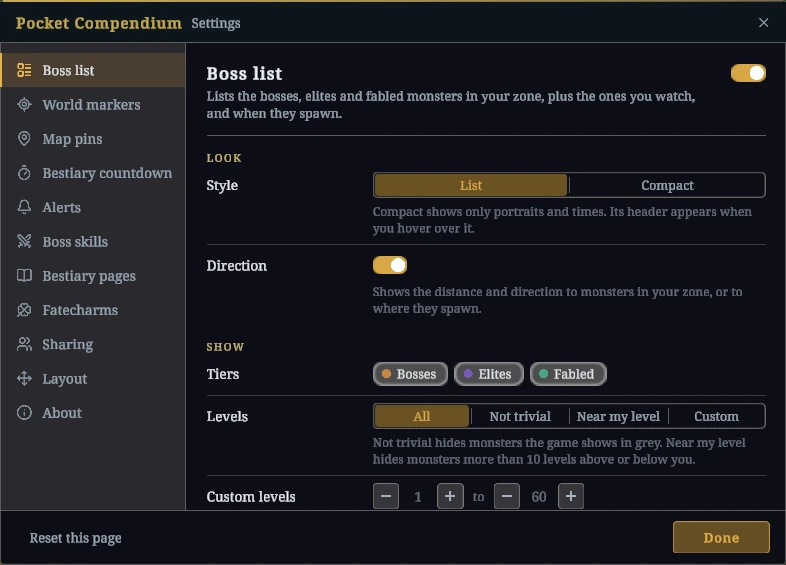
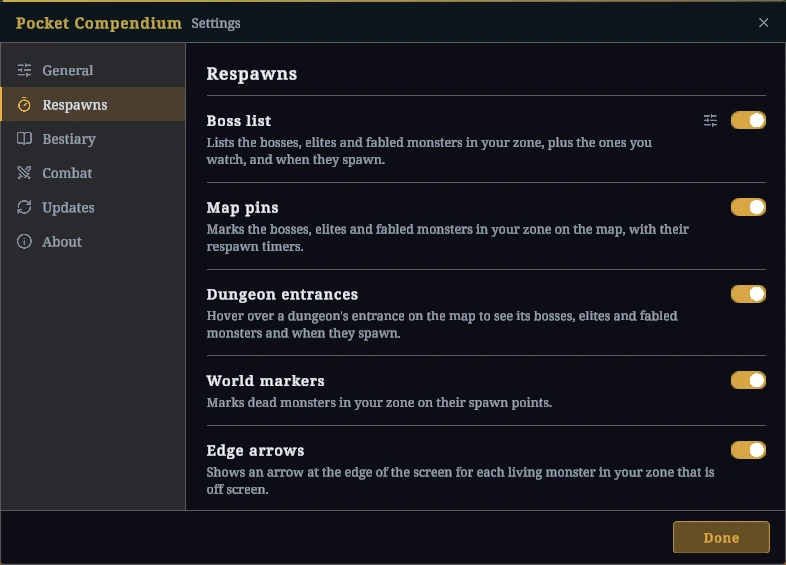
docs(website): show the grouped settings window on the install page
The install page's picture showed the settings window from before
Updates existed, with a page per feature in the sidebar. It now shows
the Respawns group of the reorganized window, which the last install
step's F8 opens.

diff --git a/website/src/routes/mods/install/+page.svelte b/website/src/routes/mods/install/+page.svelte
@@ -50,7 +50,7 @@
         {#if i === guide.steps.length - 1}
           <img
             src="/mod-pictures/settings-window.webp"
-            alt="Pocket Compendium's settings window on its Boss list page, with the list's style, direction, tiers and levels."
+            alt="Pocket Compendium's settings window on its Respawns page, with switches for the boss list, map pins, dungeon entrances, world markers and edge arrows."
             width="786"
             height="565"
             loading="lazy"
